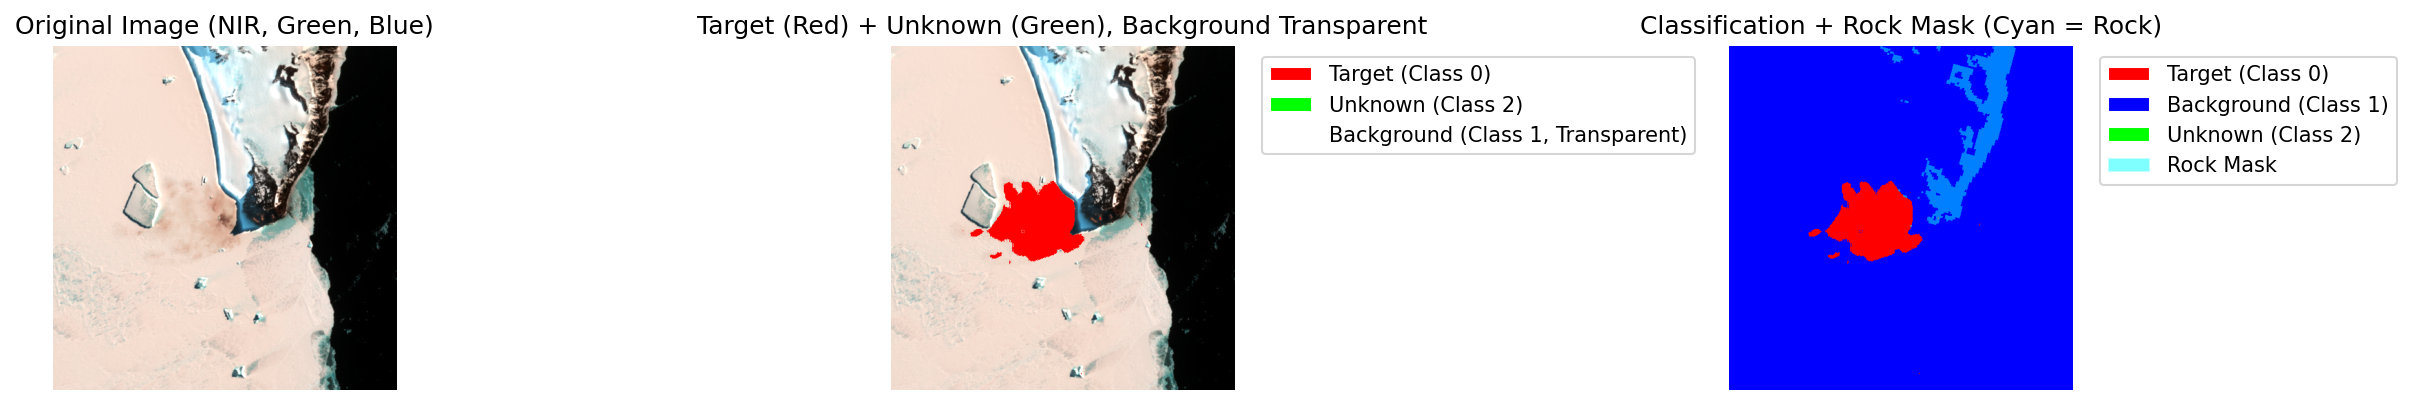
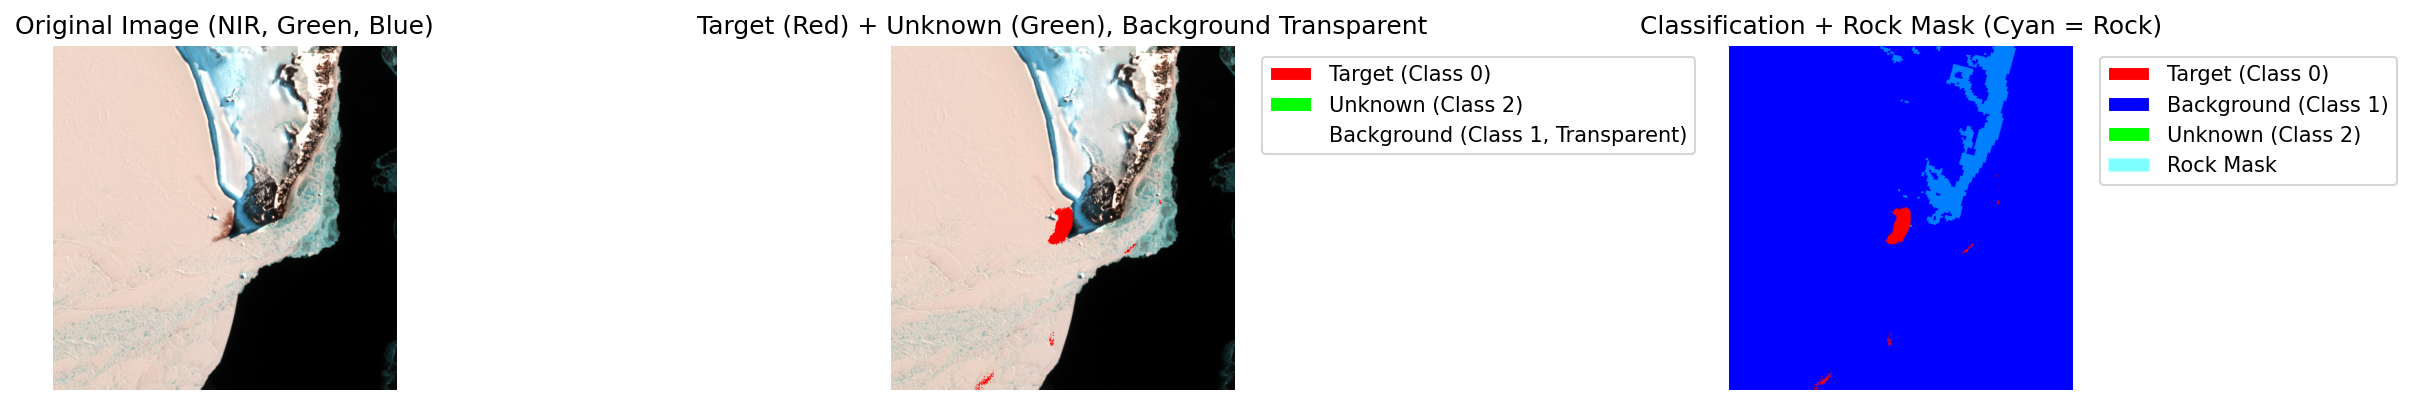
new pic for result

diff --git a/src/scripts/result_view.py b/src/scripts/result_view.py
@@ -88,7 +88,7 @@ def normalize_band(band):
 def main():
     # ============ 配置 ============
     checkpoint_path = Path(r".\checkpoints\best_model_20260920_103308.pth")
-    tif_folder = Path(r"d:\outputimg\2018")
+    tif_folder = Path(r"d:\outputimg\2023_20")
 
     center_x = 511720
     center_y = 1715640
